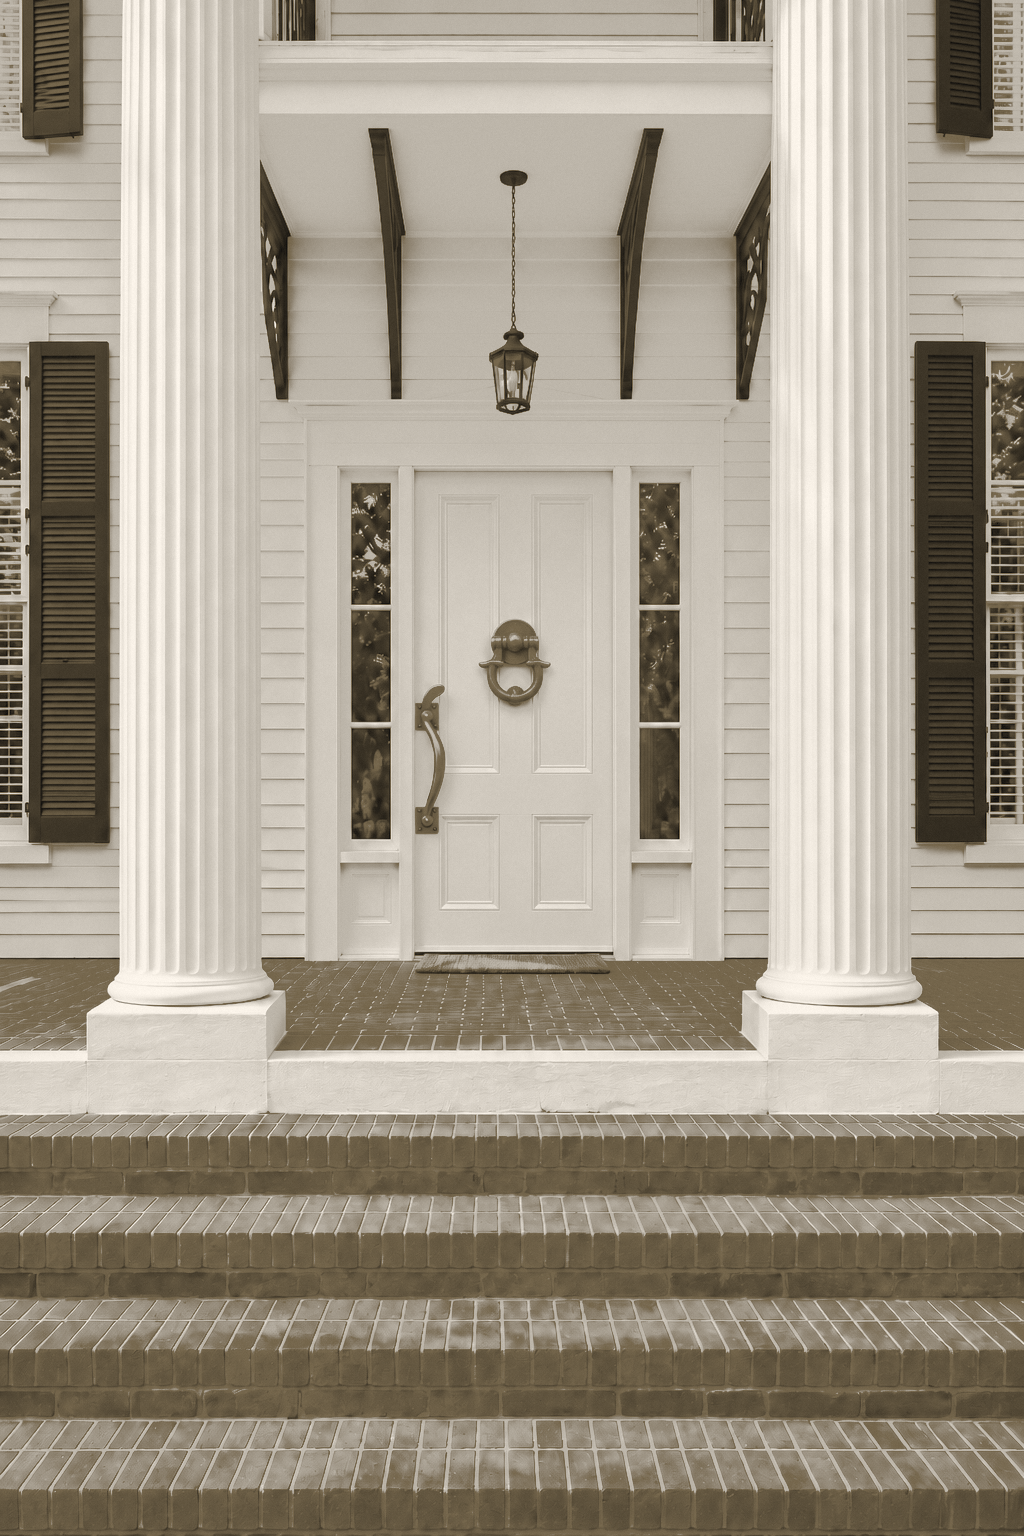
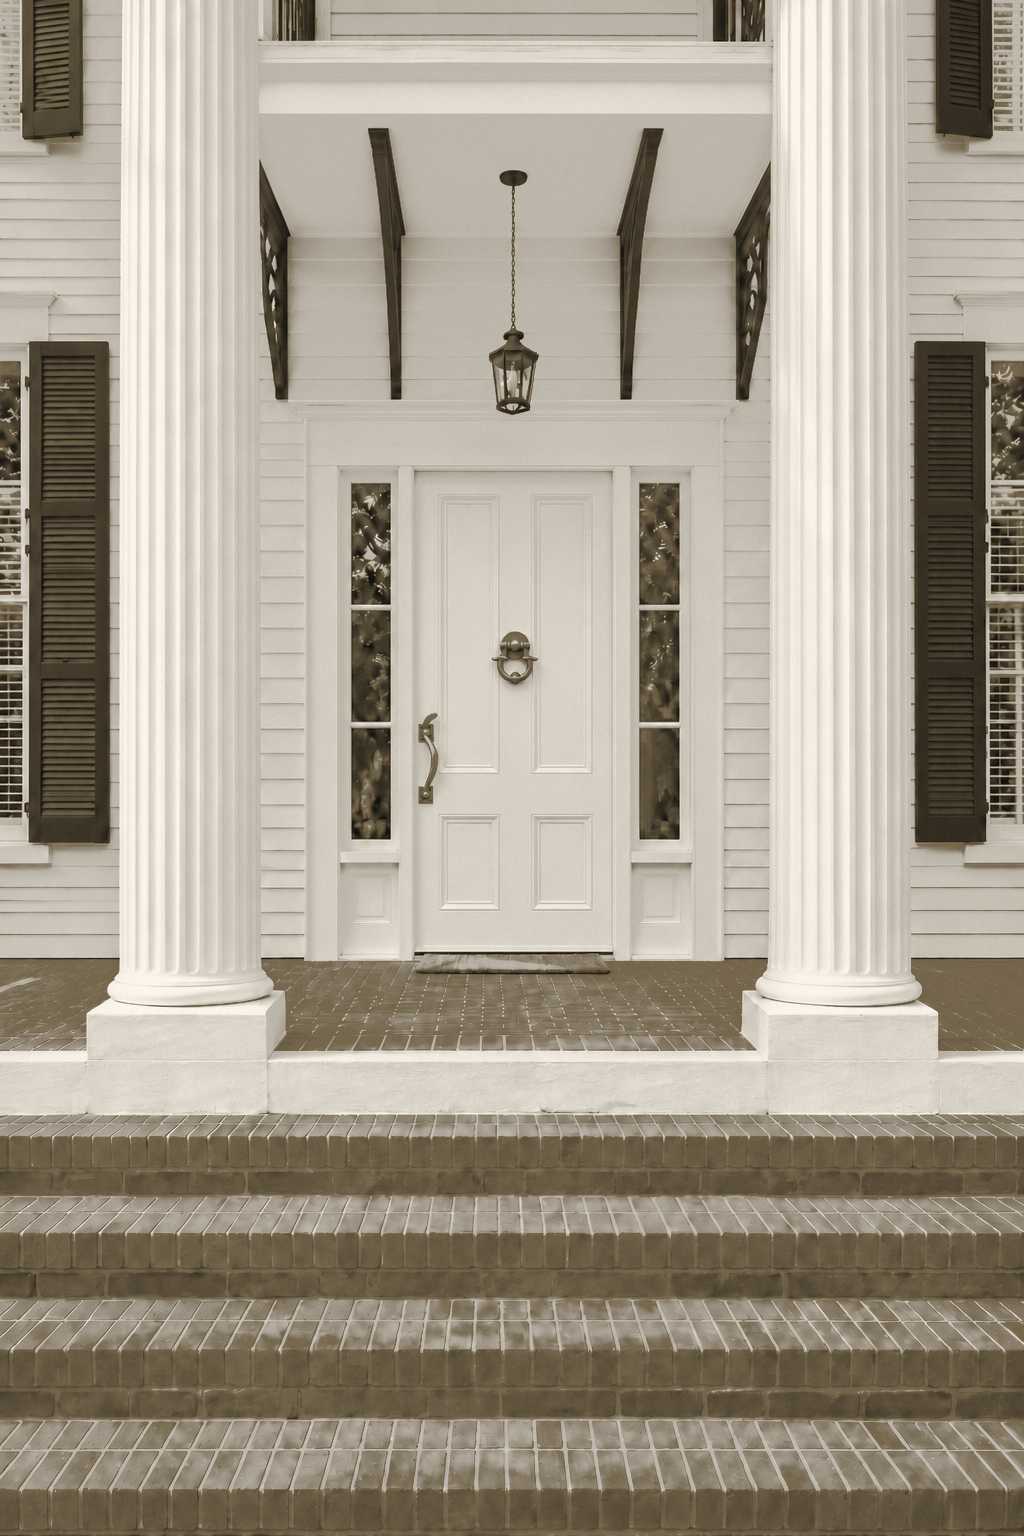
Portico door: knocker and thumb-latch pull at true scale

Changed region(s): [[0.4688, 0.4062, 0.5312, 0.4688], [0.4062, 0.4375, 0.4375, 0.5625]]

diff --git a/assets/inbox/29-detail-11-door-scale/NOTES.md b/assets/inbox/29-detail-11-door-scale/NOTES.md
@@ -1,0 +1,17 @@
+# Brief 29: door hardware scale
+
+Generated with the built-in image generation tool. Both variants used the same original edit target and the exact prompt below. No grading performed.
+
+Outputs: `raw-1.png` and `raw-2.png`, portrait 1024x1536.
+
+## Exact prompt used for both variants
+
+```text
+Use case: precise-object-edit
+Edit target: _ref/a-current.png. Edit this exact photograph. Output portrait 1024x1536.
+Change ONLY the size of the two brass door hardware pieces, retaining their designs, finish and mounting locations. The solid door leaf is 36 inches wide and 80 inches tall, approximately x414 to613 and y478 to953 in this image.
+Reduce the knocker to about 7 inches wide overall, roughly one fifth of the leaf width (about 39 pixels wide here). Keep it centered on the center stile at x514, with its top at 55 to60 percent of door height above the floor. Preserve the weathered brass round backplate with ball pivot, horned frame with outward spurs, ring of curled horns meeting at a ball striker over a small round strike plate. It must be comfortably narrower than the center stile plus panel moldings.
+Reduce the LEFT side Yale 2531 style thumb-latch pull to about 11 inches overall length, roughly one eighth of door height (about 65 pixels tall here). Keep it near the left edge of the door leaf at x430, with center about 40 inches from the floor (y715). Preserve S-curved grip, two small square escutcheon plates with screws, leaf-shaped thumb lever at top plate, small scroll at bottom, aged brass finish.
+Seamlessly reconstruct matching painted door panels, moldings and stile wherever the former oversized hardware was visible. Preserve the door as one solid leaf with exactly four panels and no center seam.
+Everything else must stay exactly the same: all door geometry, sidelights, columns, lantern, brackets, shutters, clapboards, brick floor and steps, lighting, colors, textures, perspective and framing. No people, text, numbers, mailbox, or added objects. No other changes.
+```

diff --git a/codex-briefs/29-detail-11-door-scale.md b/codex-briefs/29-detail-11-door-scale.md
@@ -1,0 +1,23 @@
+# Brief 29: door hardware scale (iteration 11, Portico)
+
+You are the illustrator. Work ONLY inside the current directory. Attached: `_ref/a-current.png`. EDIT THIS IMAGE.
+
+## Problem
+The door knocker and the brass thumb-latch pull are far too large for the door. They read as far too large.
+
+## Change only their size (keep their design, finish, and placement)
+Assume the door leaf is 36 inches wide and 80 inches tall.
+- **Knocker:** about 7 inches wide overall, so roughly one fifth of the door leaf's width, comfortably narrower than the center stile plus its panel moldings. Keep it centered on the center stile, with its top at roughly 55 to 60 percent of the door's height from the floor (eye level). Same weathered brass form: round backplate with ball pivot, horned frame with outward spurs, ring of curled horns meeting at a ball striker over a small round strike plate.
+- **Thumb-latch pull (Yale 2531 style):** about 11 inches long overall, so roughly one eighth of the door's height, mounted on the LEFT side of the door leaf near its edge, its center at about 40 inches from the floor. Same S-curved grip, two small square escutcheon plates with screws, leaf-shaped thumb lever at the top plate, small scroll at the bottom, aged brass.
+- Fill the areas the larger hardware covered with matching painted door panel and stile, seamlessly.
+
+Everything else must stay exactly the same: the door (one solid leaf, four panels, no seam), sidelights, columns, lantern, brackets, shutters, clapboards, brick floor and steps, light, and framing.
+
+## Method
+Use your built-in image generation tool to edit the attached image. PORTRAIT 1024x1536. Save two variants as `raw-1.png` and `raw-2.png`. Do not grade.
+
+## Must not appear
+No people, no text, no numbers, no mailbox, nothing else changed. No em dashes in any file.
+
+## Report
+Write `NOTES.md` with the exact prompt used.
